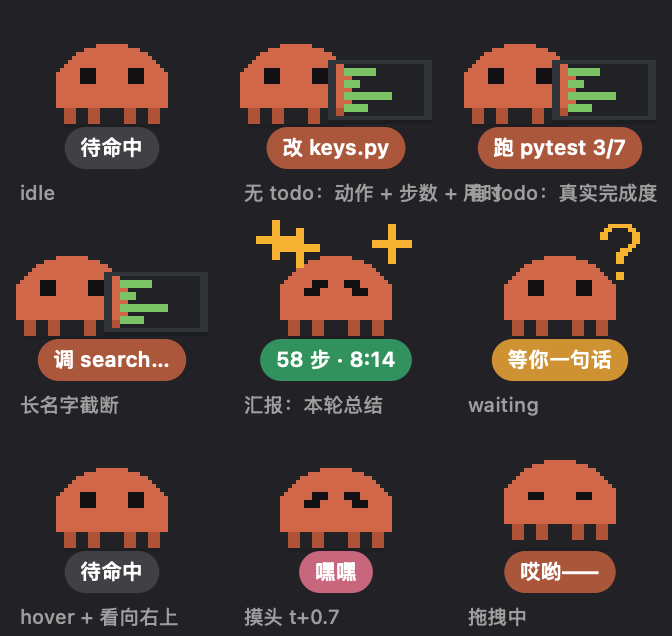
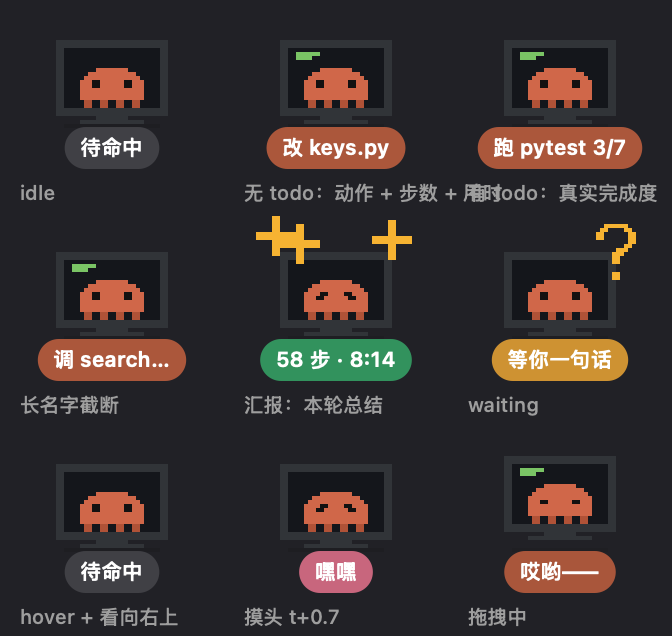
挂件换成显示器里的 Clawd
两只之前长得一模一样，同屏分不清。现在 Claude Code 那只是一台显示器、
Clawd 坐在屏幕里：干活时屏幕亮起绿色代码行，闲着屏幕是黑的，需要确认
时问号挂在显示器右上角。学习面板保持裸的 Clawd。

diff --git a/shared/Clawd.swift b/shared/Clawd.swift
@@ -78,7 +78,8 @@ enum ClawdSprites {
         "z": NSColor(srgbRed: 0.780, green: 0.843, blue: 0.925, alpha: 1),   // sleepy Z
         "W": NSColor(srgbRed: 0.827, green: 0.835, blue: 0.851, alpha: 1),   // text on screen
         "w": NSColor(srgbRed: 0.722, green: 0.549, blue: 0.353, alpha: 1),   // whip lash
-        "h": NSColor(srgbRed: 0.361, green: 0.227, blue: 0.145, alpha: 1)    // whip handle
+        "h": NSColor(srgbRed: 0.361, green: 0.227, blue: 0.145, alpha: 1),   // whip handle
+        "s": NSColor(srgbRed: 0.078, green: 0.086, blue: 0.106, alpha: 1)    // monitor screen
     ]
 
     /// Buff form: brighter body, darker legs — reads sharper at the same size.
@@ -151,6 +152,61 @@ enum ClawdSprites {
             stamp(e0 - 2, e0 + 3, L + R)
         }
         return Sprite(rows: rows, map: buff ? buffPalette : palette)
+    }
+
+    /// 28 x 21. Clawd sitting inside a monitor — the Claude Code pet wears this
+    /// so it can never be mistaken for the bare Clawd in the study panel.
+    static func terminal(_ face: ClawdFace, code: Bool = true) -> Sprite {
+        var rows = [
+            "DDDDDDDDDDDDDDDDDDDDDDDDDDDD",
+            "DDDDDDDDDDDDDDDDDDDDDDDDDDDD",
+            "DDssssssssssssssssssssssssDD",
+            "DDssGGGGGGssssssssssssssssDD",
+            "DDssGGGGssssssssssssssssssDD",
+            "DDssssssssssssssssssssssssDD",
+            "DDssssssssssssssssssssssssDD",
+            "DDssssssss########ssssssssDD",
+            "DDssssss############ssssssDD",
+            "DDsssss##############sssssDD",
+            "DDssss################ssssDD",
+            "DDssss################ssssDD",
+            "DDssss################ssssDD",
+            "DDssss################ssssDD",
+            "DDssss################ssssDD",
+            "DDsssssllssllssllssllsssssDD",
+            "DDsssssllssllssllssllsssssDD",
+            "DDDDDDDDDDDDDDDDDDDDDDDDDDDD",
+            "DDDDDDDDDDDDDDDDDDDDDDDDDDDD",
+            "..........DDDDDDDD..........",
+            "......DDDDDDDDDDDDDDDD......"
+        ]
+        if !code {                                  // blank screen when idle
+            rows[3] = rows[3].replacingOccurrences(of: "G", with: "s")
+            rows[4] = rows[4].replacingOccurrences(of: "G", with: "s")
+        }
+
+        func stamp(_ r0: Int, _ r1: Int, _ cols: [Int]) {
+            guard r0 <= r1 else { return }
+            for r in r0...r1 where r >= 0 && r < rows.count {
+                var ch = Array(rows[r])
+                for c in cols where c >= 0 && c < ch.count { ch[c] = "@" }
+                rows[r] = String(ch)
+            }
+        }
+        switch face {
+        case .happy:
+            stamp(10, 10, [10, 11, 16, 17])
+            stamp(11, 11, [9, 10, 17, 18])
+        case .blink:
+            stamp(11, 11, [8, 9, 10, 11, 16, 17, 18, 19])
+        case .narrow:
+            stamp(11, 11, [9, 10, 17, 18])
+        case .wide:
+            stamp(9, 11, [9, 10, 17, 18])
+        default:
+            stamp(10, 11, [9, 10, 17, 18])
+        }
+        return Sprite(rows: rows, map: palette)
     }
 
     /// 8 x 10 bicep, drawn on either side. An overlay rather than a whole new

diff --git a/pet/ClaudePet.swift b/pet/ClaudePet.swift
@@ -278,16 +278,12 @@ final class PetView: NSView {
         if patT < 1.2 { face = .happy }
         if isDragging { face = .narrow }
 
-        let body = ClawdSprites.body(face)
+        // The pet is Clawd inside a monitor; the study panel is the bare Clawd.
+        // Different silhouettes, so a glance is enough to tell them apart.
+        let body = ClawdSprites.terminal(face, code: state == .working)
         let bodyW = CGFloat(body.w) * px
         let bodyH = CGFloat(body.h) * px
-
-        // Working means a laptop in front, which widens the group.
-        let showLaptop = (state == .working && !isDragging)
-        let lap = ClawdSprites.laptop
-        let lapW = CGFloat(lap.w) * px
-        let groupW = showLaptop ? bodyW + lapW - px * 6 : bodyW
-        let gx = ((cx - groupW / 2) / px).rounded() * px
+        let gx = ((cx - bodyW / 2) / px).rounded() * px
         let by = groundY + lift * px
 
         // Contact shadow, in pixel steps too.
@@ -295,12 +291,10 @@ final class PetView: NSView {
         ctx.fill(CGRect(x: gx + px * 2, y: groundY - px, width: bodyW - px * 4, height: px))
 
         body.draw(ctx, at: CGPoint(x: gx, y: by), px: px)
-        if showLaptop {
-            lap.draw(ctx, at: CGPoint(x: gx + bodyW - px * 6, y: by), px: px)
-        }
         if state == .waiting {
+            // Hangs off the monitor's top-right corner.
             ClawdSprites.question.draw(ctx,
-                at: CGPoint(x: gx + bodyW - px * 4, y: by + bodyH - px * 6), px: px)
+                at: CGPoint(x: gx + bodyW - px * 5, y: by + bodyH - px * 7), px: px)
         }
 
         drawSparkles(ctx, cx: cx, top: by + bodyH, px: px)

diff --git a/README.md b/README.md
@@ -4,8 +4,10 @@
 
 两个独立的小程序，共用同一只 Clawd：
 
-- **clawd** — 学习陪伴面板：今日清单、每项任务的专注计时、每天一份汇总
-- **claude-pet** — Claude Code 的进度挂件：Claude 在干活时冒出来报告进度，闲着自动消失
+- **clawd** — 学习陪伴面板：今日清单、每项任务的专注计时、每天一份汇总。**裸的 Clawd**
+- **claude-pet** — Claude Code 的进度挂件：Claude 在干活时冒出来报告进度，闲着自动消失。**显示器里的 Clawd**
+
+两只造型刻意做得不一样：学习那只就是 Clawd 本体，Claude Code 那只是一台显示器、Clawd 坐在屏幕里。同屏摆着也不会认错。
 
 原生 Swift + AppKit，单文件，无第三方依赖。只需要 Xcode Command Line Tools。
 
@@ -88,7 +90,7 @@ clawd.sh build               改完源码重新编译
 
 ## claude-pet（可选）
 
-给 [Claude Code](https://claude.com/claude-code) 用的进度挂件。Claude 开始干活时它出现在角落，底下一行字说明正在做什么（`改 keys.py`、`跑 pytest 3/7`），干完变成本轮总结（`58 步 · 5:02`），**停留 60 秒**让你来得及看见，然后自己消失。`pet.sh linger 120` 可以调更久。
+给 [Claude Code](https://claude.com/claude-code) 用的进度挂件，造型是**一台显示器、Clawd 坐在屏幕里**——干活时屏幕上会亮起绿色代码行，闲着屏幕就是黑的。Claude 开始干活时它出现在角落，底下一行字说明正在做什么（`改 keys.py`、`跑 pytest 3/7`），干完变成本轮总结（`58 步 · 5:02`），**停留 60 秒**让你来得及看见，然后自己消失。`pet.sh linger 120` 可以调更久。
 
 ![干活挂件](docs/pet.png)
 
